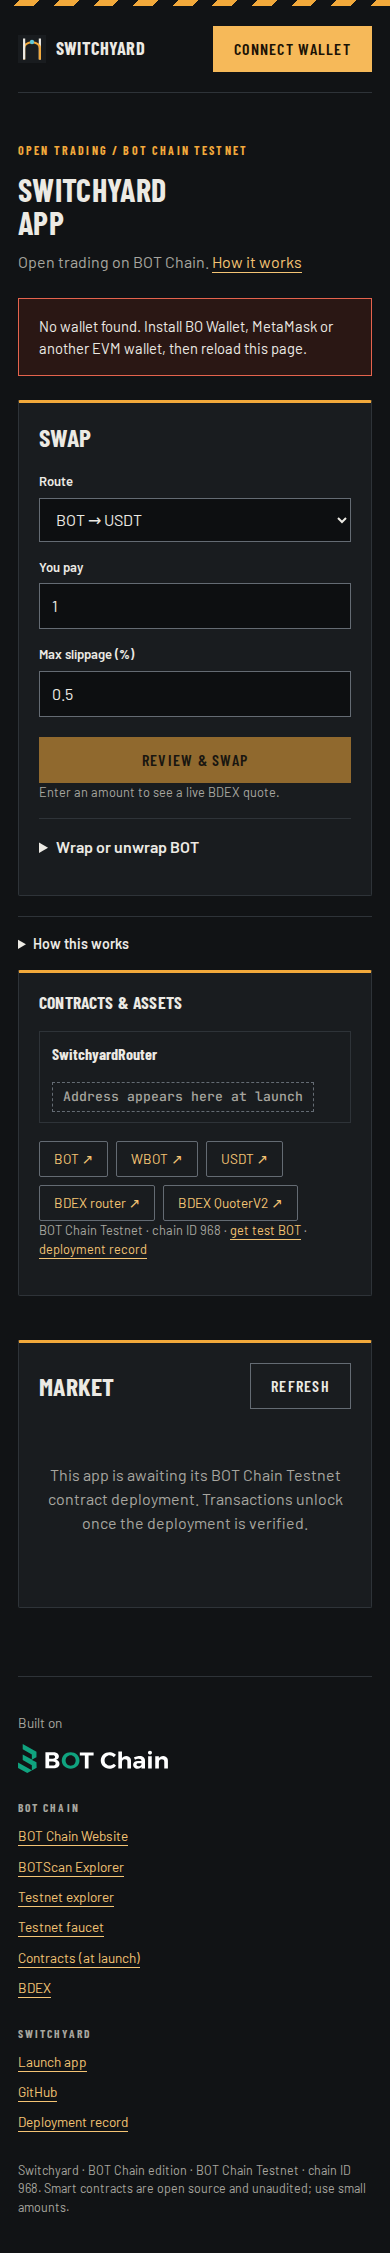
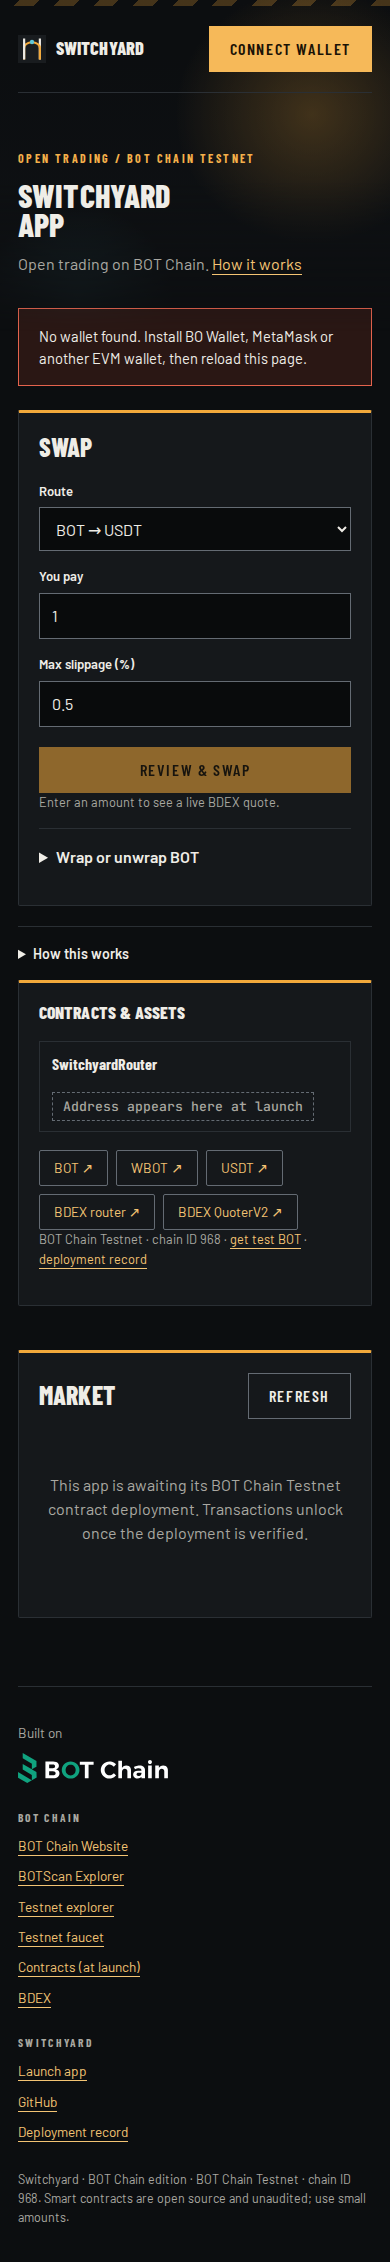
Dark web3 design: glowing heroes, status chip, ticker

diff --git a/web/base.css b/web/base.css
@@ -2,6 +2,7 @@
    theme's tokens (web/themes/<slug>/theme.css). Do not add raw colors here; add a token instead. See DESIGN.md. */
 *{box-sizing:border-box}
 :root{font-family:var(--font-body);color:var(--ink);background:var(--bg);font-synthesis:none;color-scheme:var(--scheme);-webkit-text-size-adjust:100%}
+html,body{overflow-x:clip}
 body{margin:0;background:var(--bg);line-height:1.5}
 button,input,select,textarea{font:inherit;color:inherit}
 button,a,input,textarea,select,summary{-webkit-tap-highlight-color:transparent}
@@ -9,7 +10,7 @@ button,a,input,textarea,select,summary{-webkit-tap-highlight-color:transparent}
 a{color:var(--link);text-underline-offset:4px;text-decoration-thickness:1px}
 a:hover{text-decoration-thickness:2px}
 h1,h2,h3{font-family:var(--font-display);font-weight:var(--display-weight);letter-spacing:var(--display-tracking);text-transform:var(--display-case);color:var(--ink);line-height:1.12}
-h1{font-size:clamp(2.4rem,5.4vw,4.4rem);margin:16px 0 22px;max-width:16ch;line-height:1.02}
+h1{font-size:clamp(2.8rem,7vw,6rem);margin:18px 0 24px;max-width:13ch;line-height:.98}
 h2{font-size:clamp(1.6rem,3vw,2.3rem);margin:0 0 20px}
 h3{font-size:1.1rem;margin:0 0 10px}
 p{color:var(--ink-2);margin:0 0 16px}
@@ -26,7 +27,7 @@ button.primary:hover:not(:disabled),a.button.primary:hover{background:var(--acce
 button:disabled{cursor:not-allowed;opacity:.55;box-shadow:none}
 
 /* Header */
-header{display:flex;align-items:center;justify-content:space-between;gap:20px;padding:20px 0;border-bottom:var(--border-w) solid var(--line)}
+header{position:relative;z-index:3;display:flex;align-items:center;justify-content:space-between;gap:20px;padding:20px 0;border-bottom:var(--border-w) solid var(--line)}
 .brand{display:flex;align-items:center;gap:10px;color:var(--ink);text-decoration:none;font-family:var(--font-display);font-weight:var(--display-weight);letter-spacing:var(--display-tracking);text-transform:var(--display-case);font-size:1.45rem}
 .brand .logo{width:34px;height:34px;flex:none;display:block}
 .site-nav{display:flex;gap:24px;font-size:.95rem}
@@ -40,12 +41,26 @@ header{display:flex;align-items:center;justify-content:space-between;gap:20px;pa
 /* Eyebrow and labels */
 .eyebrow{display:inline-block;font-family:var(--font-label);font-size:.75rem;font-weight:700;letter-spacing:var(--label-tracking);text-transform:uppercase;color:var(--accent-text)}
 
-/* Landing hero */
-.hero{display:grid;grid-template-columns:minmax(0,1.15fr) minmax(0,1fr);grid-template-areas:"copy art";gap:48px;align-items:center;padding:72px 0 56px}
+/* Landing hero: full-bleed glow mesh and texture behind the header and hero, per-theme tokens. */
+.hero{position:relative;isolation:isolate;display:grid;grid-template-columns:minmax(0,1.1fr) minmax(0,1fr);grid-template-areas:"copy art";gap:48px;align-items:center;min-height:min(84vh,820px);padding:64px 0 72px}
+.hero:before,.hero:after{content:'';position:absolute;left:50%;width:100vw;transform:translateX(-50%);top:-96px;bottom:0;z-index:-2;pointer-events:none}
+.hero:before{background:var(--hero-bg)}
+.hero:after{z-index:-1;background:var(--hero-pattern);background-size:var(--hero-pattern-size);-webkit-mask-image:radial-gradient(ellipse 70% 65% at 60% 45%,#000 20%,transparent 75%);mask-image:radial-gradient(ellipse 70% 65% at 60% 45%,#000 20%,transparent 75%);opacity:var(--hero-pattern-opacity)}
 .hero>div:first-child{grid-area:copy}
-.hero p{font-size:1.1rem;max-width:52ch}
-.hero-art{grid-area:art;display:flex;justify-content:center;align-items:center}
-.hero-art svg{width:100%;max-width:460px;height:auto;display:block}
+.hero p{font-size:1.15rem;max-width:50ch}
+.hero-chip{display:inline-flex;align-items:center;gap:10px;margin-bottom:6px;padding:7px 14px;border:1px solid var(--line-strong);border-radius:var(--radius-pill);background:var(--chip-bg);font-family:var(--font-label);font-size:.8rem;font-weight:600;color:var(--ink)}
+.hero-chip:before{content:'';width:8px;height:8px;border-radius:50%;background:var(--live);box-shadow:0 0 0 4px var(--live-ring);animation:pulse 2.4s ease-in-out infinite}
+.hero-chip.pending:before{background:var(--ink-2);box-shadow:none;animation:none}
+.hero-art{grid-area:art;position:relative;display:flex;justify-content:center;align-items:center}
+.hero-art:before{content:'';position:absolute;inset:8% 6%;z-index:-1;border-radius:50%;background:var(--art-glow);filter:blur(48px);opacity:.75}
+.hero-art svg{width:100%;max-width:500px;height:auto;display:block;animation:float 7s ease-in-out infinite}
+@keyframes float{0%,100%{transform:translateY(0)}50%{transform:translateY(-12px)}}
+@keyframes pulse{0%,100%{box-shadow:0 0 0 4px var(--live-ring)}50%{box-shadow:0 0 0 8px transparent}}
+.ticker{position:relative;left:50%;width:100vw;transform:translateX(-50%);overflow:hidden;border-top:var(--border-w) solid var(--line);border-bottom:var(--border-w) solid var(--line);background:var(--ticker-bg)}
+.ticker-track{display:flex;width:max-content;gap:48px;padding:14px 0;animation:marquee 46s linear infinite}
+.ticker span{display:inline-flex;align-items:center;gap:48px;font-family:var(--font-label);font-size:.8rem;font-weight:700;letter-spacing:var(--label-tracking);text-transform:uppercase;color:var(--ink-2);white-space:nowrap}
+.ticker span:after{content:'';width:6px;height:6px;border-radius:50%;background:var(--accent)}
+@keyframes marquee{to{transform:translateX(-50%)}}
 .cta-row{display:flex;flex-wrap:wrap;gap:12px;margin-top:28px}
 .launch{display:flex;flex-wrap:wrap;align-items:center;justify-content:space-between;gap:10px 24px;padding:18px 22px;margin-bottom:8px;border:var(--border-w) solid var(--accent);border-radius:var(--radius-lg);background:var(--surface);box-shadow:var(--shadow-1)}
 .launch.pending{border-color:var(--line-strong)}
@@ -82,7 +97,8 @@ header{display:flex;align-items:center;justify-content:space-between;gap:20px;pa
 .assets a:hover{border-color:var(--accent)}
 
 /* App page */
-.app-intro{padding:44px 0 24px}
+.app-intro{position:relative;isolation:isolate;padding:52px 0 32px}
+.app-intro:before{content:'';position:absolute;left:50%;width:100vw;transform:translateX(-50%);top:-96px;bottom:-24px;z-index:-1;pointer-events:none;background:var(--hero-bg);opacity:.75;-webkit-mask-image:linear-gradient(#000 55%,transparent);mask-image:linear-gradient(#000 55%,transparent)}
 .app-intro h1{font-size:clamp(2rem,4vw,3rem);margin:12px 0}
 .app-intro p{margin:0}
 .status{margin-bottom:24px;padding:16px 20px;border:var(--border-w) solid var(--line);border-left-width:var(--border-w);border-radius:var(--radius-md);background:var(--surface);color:var(--ink);font-size:.92rem;overflow-wrap:anywhere}
@@ -146,7 +162,7 @@ dialog form>button{width:100%}
 .legal{grid-column:1/-1;margin:0;font-size:.78rem}
 .hidden{display:none!important}
 
-@media(max-width:860px){.site-nav{display:none}.steps,.features,.facts{grid-template-columns:1fr}.site-footer{grid-template-columns:1fr}.hero{grid-template-columns:1fr;grid-template-areas:"copy" "art";gap:32px;padding:44px 0 32px}.hero-art svg{max-width:340px}.layout{grid-template-columns:1fr}}
+@media(max-width:860px){.site-nav{display:none}.steps,.features,.facts{grid-template-columns:1fr}.site-footer{grid-template-columns:1fr}.hero{grid-template-columns:1fr;grid-template-areas:"copy" "art";gap:32px;min-height:0;padding:44px 0 48px}.hero-art svg{max-width:360px}.layout{grid-template-columns:1fr}}
 @media(max-width:760px){.shell{padding:0 18px}.band{padding:44px 0}.panel{padding:20px}.cta-band{padding:36px 22px}#add-chain{display:none}.chain-badge.compact{display:none}}
-@media(max-width:480px){header{gap:10px}.header-actions{gap:6px}.chain-badge span{display:none}.chain-badge{padding:6px 8px}.chain-badge img{height:12px}.header-actions a.button{min-height:40px;padding:8px 12px;font-size:.85rem}.brand{font-size:1.15rem}.brand .logo{width:28px;height:28px}h1{font-size:2.3rem}}
+@media(max-width:480px){header{gap:10px}.header-actions{gap:6px}.chain-badge span{display:none}.chain-badge{padding:6px 8px}.chain-badge img{height:12px}.header-actions a.button{min-height:40px;padding:8px 12px;font-size:.85rem}.brand{font-size:1.15rem}.brand .logo{width:28px;height:28px}h1{font-size:2.6rem}}
 @media(prefers-reduced-motion:reduce){*,*:before,*:after{transition:none!important;animation:none!important;scroll-behavior:auto!important}}

diff --git a/web/landing.html b/web/landing.html
@@ -1,1 +1,1 @@
-<!doctype html><html lang="en"><head><meta charset="UTF-8"><meta name="viewport" content="width=device-width,initial-scale=1"><meta name="theme-color" content="__THEME_COLOR__"><title>__NAME__ · BOT Chain</title><meta name="description" content="__DESCRIPTION__"><meta property="og:title" content="__NAME__ · BOT Chain"><meta property="og:description" content="__DESCRIPTION__"><meta property="og:type" content="website"><meta name="twitter:card" content="summary"><link rel="icon" href="/icon.svg" type="image/svg+xml"><link rel="stylesheet" href="/style.css"></head><body><a class="skip" href="#main">Skip to content</a><div class="shell"><header><a class="brand" href="/">__LOGO____NAME__</a><nav class="site-nav" aria-label="Page"><a href="#how">How it works</a><a href="#features">Features</a><a href="#contracts">Contracts</a><a href="#faq">FAQ</a><a href="__REPO_URL__" target="_blank" rel="noopener noreferrer">GitHub</a></nav><div class="header-actions"><a class="chain-badge" href="https://www.botchain.ai/" target="_blank" rel="noopener noreferrer" aria-label="Built on BOT Chain"><span>Built on</span><img src="/__BOTCHAIN_LOGO__" alt="BOT Chain" width="96" height="19"></a><a class="button primary" href="/app/">Launch app</a></div></header><main id="main"><section class="hero"><div><span class="eyebrow">__EYEBROW__ / BOT CHAIN</span><h1>__LINE__</h1><p>__DESCRIPTION__</p><div class="cta-row"><a class="button primary" href="/app/">Launch app</a><a class="button" href="__REPO_URL__" target="_blank" rel="noopener noreferrer">View source</a></div></div><div class="hero-art">__HERO_ART__</div></section>__LAUNCH__<section id="how" class="band"><span class="eyebrow">How it works</span><h2>Three steps, all onchain</h2><ol class="steps">__STEPS__</ol></section><section id="features" class="band"><span class="eyebrow">Features</span><h2>Why __NAME__</h2><div class="features">__FEATURES__</div></section><section id="onchain" class="band"><span class="eyebrow">Onchain</span><h2>Verify everything</h2><dl class="facts">__FACTS__</dl></section><section id="contracts" class="band"><span class="eyebrow">Contracts &amp; BOT Chain assets</span><h2>Every address, on __EXPLORER__</h2><p>Each link opens the contract or token on __EXPLORER_LONG__.</p><div class="contracts">__CONTRACTS__</div><h3 class="assets-title">BOT Chain assets used</h3><ul class="assets">__ASSETS__</ul></section><section id="faq" class="band"><span class="eyebrow">FAQ</span><h2>Questions</h2><div class="faq">__FAQ__</div></section><section class="cta-band"><h2>__LINE__</h2><p>Connect BO Wallet, MetaMask or any EVM wallet on __NETWORK__.</p><a class="button primary" href="/app/">Launch __NAME__</a></section></main>__FOOTER__</div></body></html>
+<!doctype html><html lang="en"><head><meta charset="UTF-8"><meta name="viewport" content="width=device-width,initial-scale=1"><meta name="theme-color" content="__THEME_COLOR__"><title>__NAME__ · BOT Chain</title><meta name="description" content="__DESCRIPTION__"><meta property="og:title" content="__NAME__ · BOT Chain"><meta property="og:description" content="__DESCRIPTION__"><meta property="og:type" content="website"><meta name="twitter:card" content="summary"><link rel="icon" href="/icon.svg" type="image/svg+xml"><link rel="stylesheet" href="/style.css"></head><body><a class="skip" href="#main">Skip to content</a><div class="shell"><header><a class="brand" href="/">__LOGO____NAME__</a><nav class="site-nav" aria-label="Page"><a href="#how">How it works</a><a href="#features">Features</a><a href="#contracts">Contracts</a><a href="#faq">FAQ</a><a href="__REPO_URL__" target="_blank" rel="noopener noreferrer">GitHub</a></nav><div class="header-actions"><a class="chain-badge" href="https://www.botchain.ai/" target="_blank" rel="noopener noreferrer" aria-label="Built on BOT Chain"><span>Built on</span><img src="/__BOTCHAIN_LOGO__" alt="BOT Chain" width="96" height="19"></a><a class="button primary" href="/app/">Launch app</a></div></header><main id="main"><section class="hero"><div>__HERO_CHIP__<br><span class="eyebrow">__EYEBROW__ / BOT CHAIN</span><h1>__LINE__</h1><p>__DESCRIPTION__</p><div class="cta-row"><a class="button primary" href="/app/">Launch app</a><a class="button" href="__REPO_URL__" target="_blank" rel="noopener noreferrer">View source</a></div></div><div class="hero-art">__HERO_ART__</div></section><div class="ticker" aria-hidden="true"><div class="ticker-track">__TICKER__</div></div>__LAUNCH__<section id="how" class="band"><span class="eyebrow">How it works</span><h2>Three steps, all onchain</h2><ol class="steps">__STEPS__</ol></section><section id="features" class="band"><span class="eyebrow">Features</span><h2>Why __NAME__</h2><div class="features">__FEATURES__</div></section><section id="onchain" class="band"><span class="eyebrow">Onchain</span><h2>Verify everything</h2><dl class="facts">__FACTS__</dl></section><section id="contracts" class="band"><span class="eyebrow">Contracts &amp; BOT Chain assets</span><h2>Every address, on __EXPLORER__</h2><p>Each link opens the contract or token on __EXPLORER_LONG__.</p><div class="contracts">__CONTRACTS__</div><h3 class="assets-title">BOT Chain assets used</h3><ul class="assets">__ASSETS__</ul></section><section id="faq" class="band"><span class="eyebrow">FAQ</span><h2>Questions</h2><div class="faq">__FAQ__</div></section><section class="cta-band"><h2>__LINE__</h2><p>Connect BO Wallet, MetaMask or any EVM wallet on __NETWORK__.</p><a class="button primary" href="/app/">Launch __NAME__</a></section></main>__FOOTER__</div></body></html>

diff --git a/web/themes/switchyard/theme.css b/web/themes/switchyard/theme.css
@@ -1,17 +1,23 @@
-@import url('https://fonts.googleapis.com/css2?family=Barlow+Condensed:wght@600;700&family=Barlow:wght@400;500;600&family=JetBrains+Mono:wght@500;700&display=swap');
-/* Switchyard: rail signage at night. Dark steel, signal amber, condensed caps, departure-board numbers. */
-:root{--scheme:dark;--bg:#111315;--surface:#191C1F;--surface-2:#22262A;--input-bg:#0D0F11;--tile:#22262A;
- --ink:#ECEAE4;--ink-2:#A7A69F;--line:#2E3338;--line-strong:#646B73;
- --accent:#F2A93B;--accent-hover:#F7BC5E;--accent-ink:#1A1205;--accent-text:#F2A93B;--link:#F4C474;--focus:#5FC7D9;
- --danger:#E5634D;--danger-bg:#2A1714;--danger-text:#F28C78;--scrim:rgba(0,0,0,.65);
+@import url('https://fonts.googleapis.com/css2?family=Barlow+Condensed:wght@600;700;800&family=Barlow:wght@400;500;600&family=JetBrains+Mono:wght@500;700&display=swap');
+/* Switchyard: a rail yard at night. Steel black, signal amber and cyan lamps, condensed caps, departure boards. */
+:root{--scheme:dark;--bg:#0C0E10;--surface:#15181B;--surface-2:#1E2226;--input-bg:#090B0C;--tile:#1E2226;
+ --ink:#EFEDE7;--ink-2:#A9A8A1;--line:#2A2F34;--line-strong:#646B73;
+ --accent:#F2A93B;--accent-hover:#F7BC5E;--accent-ink:#1A1205;--accent-text:#F4B04A;--link:#F4C474;--focus:#5FD3E6;
+ --danger:#E5634D;--danger-bg:#2A1714;--danger-text:#F28C78;--scrim:rgba(0,0,0,.7);
  --radius-sm:0;--radius-md:0;--radius-lg:2px;--radius-btn:0;--radius-pill:2px;--border-w:1px;
- --shadow-1:none;--shadow-2:0 24px 60px rgba(0,0,0,.6);--shadow-btn:none;
+ --shadow-1:none;--shadow-2:0 24px 60px rgba(0,0,0,.65);--shadow-btn:none;
  --font-display:'Barlow Condensed','Arial Narrow',sans-serif;--font-body:'Barlow',system-ui,sans-serif;--font-label:'Barlow Condensed','Arial Narrow',sans-serif;--font-mono:'JetBrains Mono',ui-monospace,monospace;
- --display-weight:700;--display-tracking:.01em;--display-case:uppercase;--label-tracking:.18em}
-/* Signal strip, departure-board steps, mono figures. */
+ --display-weight:800;--display-tracking:.005em;--display-case:uppercase;--label-tracking:.2em;
+ --hero-bg:radial-gradient(50% 55% at 80% 35%,rgba(242,169,59,.30),transparent 70%),radial-gradient(35% 40% at 20% 90%,rgba(95,211,230,.16),transparent 70%),linear-gradient(180deg,#0C0E10 0%,#101316 100%);
+ --hero-pattern:linear-gradient(rgba(239,237,231,.10) 1px,transparent 1px),linear-gradient(90deg,rgba(239,237,231,.10) 1px,transparent 1px);--hero-pattern-size:64px 64px;--hero-pattern-opacity:.8;
+ --chip-bg:rgba(21,24,27,.8);--live:#5FD3E6;--live-ring:rgba(95,211,230,.25);--art-glow:radial-gradient(circle,rgba(242,169,59,.55),rgba(95,211,230,.18) 55%,transparent 72%);--ticker-bg:#F2A93B}
+/* Hazard strip, amber ticker band, departure-board steps, mono figures. */
 body:before{content:'';display:block;height:6px;background:repeating-linear-gradient(-45deg,var(--accent) 0 14px,var(--bg) 14px 28px)}
-h1{font-size:clamp(2.8rem,6vw,5rem);max-width:12ch}
-button,a.button{text-transform:uppercase;letter-spacing:.08em;font-family:var(--font-label);font-size:1rem}
+h1{font-size:clamp(3.2rem,8vw,6.8rem);max-width:11ch;line-height:.92}
+button,a.button{text-transform:uppercase;letter-spacing:.1em;font-family:var(--font-label);font-size:1rem}
+.ticker{border:0}
+.ticker span{color:var(--accent-ink)}
+.ticker span:after{background:var(--accent-ink)}
 .steps{gap:2px;background:var(--line)}
 .steps li{border:0;background:var(--surface);border-radius:0}
 .steps li:before{display:inline-block;padding:4px 8px;background:var(--bg);border:1px solid var(--line-strong);font-size:1.1rem;color:var(--accent-text)}
@@ -20,4 +26,4 @@ button,a.button{text-transform:uppercase;letter-spacing:.08em;font-family:var(--
 .launch{border-left:6px solid var(--accent)}
 .launch.pending{border-left-color:var(--line-strong)}
 .panel{border-top:3px solid var(--accent)}
-.cta-band{border-left:6px solid var(--accent)}
+.cta-band{border-left:6px solid var(--accent);background:radial-gradient(60% 120% at 90% 0%,rgba(242,169,59,.22),transparent 60%),var(--surface)}

diff --git a/DESIGN.md b/DESIGN.md
@@ -28,20 +28,28 @@ Six products share one HTML structure and one app runtime, but each has its own 
 
 ## The six identities
 
-| Product | Scene | Register | Palette | Type | Shape and signature |
-|---|---|---|---|---|---|
-| **Hedgerow** | A holder reads a basket like a fund factsheet before committing | Light, editorial | Paper `#F3EEE3`, forest `#2E5B39`, ochre focus | Fraunces / Public Sans / IBM Plex Mono | 2–6px radii, double rule under header, ruled factsheet steps, serif numerals |
-| **Switchyard** | A trader swaps at night between other tabs | Dark, signage | Steel `#111315`, signal amber `#F2A93B`, cyan focus | Barlow Condensed (caps) / Barlow / JetBrains Mono | Square, hazard strip, departure-board steps, mono figures |
-| **Lodestake** | A player grabs a round on a lunch break | Dark, game | Amethyst rock `#16121D`, gold ore `#F4BE48`, mint focus | Bungee / Rubik / Space Mono | 8–18px radii, 2px borders, beveled tiles and buttons |
-| **Showproof** | Someone in a group chat snaps proof in daylight | Light, playful | Warm white `#FBF8F3`, coral `#C0371E`, cobalt links | Bricolage Grotesque / Figtree / DM Mono | Pill buttons with sticker shadow, taped polaroid steps, art-left hero |
-| **Stepsale** | A founder sets up a careful community sale | Light, fintech | Cool white `#F5F6FA`, deep blue `#2438C8`, green focus | Sora / Manrope / IBM Plex Mono | 8–16px radii, soft elevation, rising timeline steps |
-| **Tradelock** | Two collectors negotiate OTC and want to see the lock | Light, neo-brutalist | Cream `#F1EEE2`, ink `#111111`, acid lime `#C5F23A` | Unbounded / Work Sans / JetBrains Mono | Zero radius, 2px ink borders, offset shadows, lime heading markers |
+All six are dark (web3 register, per the owner's direction). Each keeps its own hue family, type and shape so they stay distinct.
+
+| Product | Scene | Palette | Type | Shape and signature |
+|---|---|---|---|---|
+| **Hedgerow** | A DAO treasury after dark; holders read baskets like a factsheet | Forest night `#09110D`, emerald `#7FD69A`, champagne `#E8C66B` | Fraunces / Public Sans / IBM Plex Mono | 2–8px radii, ruled factsheet steps, italic champagne numerals, dot texture |
+| **Switchyard** | A trader swaps at night between other tabs | Steel `#0C0E10`, signal amber `#F2A93B`, cyan lamp `#5FD3E6` | Barlow Condensed (caps) / Barlow / JetBrains Mono | Square, hazard strip, amber ticker band, rail-grid texture, departure-board steps |
+| **Lodestake** | A player grabs a round on a lunch break | Amethyst rock `#120E19`, gold ore `#F4BE48`, mint `#7DE0C3` | Bungee / Rubik / Space Mono | 8–18px radii, 2px borders, beveled glowing tiles, two-scale dot texture |
+| **Showproof** | A night-out photo wall; proof snapped in a group chat | Ink `#110D14`, coral `#FF6A4D`, cobalt `#93A9FF` | Bricolage Grotesque / Figtree / DM Mono | Pill buttons with coral sticker shadow, paper polaroid steps, art-left hero |
+| **Stepsale** | A launch at midnight; a founder sets careful terms | Navy `#070B1C`, electric blue `#5B7CFF`, mint `#3DDC97` | Sora / Manrope / IBM Plex Mono | 8–18px radii, rising timeline steps, fine grid texture |
+| **Tradelock** | An after-hours deal desk; collectors want to see the lock | Carbon `#0C0C0A`, bone `#F4F2E8`, acid lime `#C5F23A` | Unbounded / Work Sans / JetBrains Mono | Zero radius, 2px bone borders, lime offset shadows, lime heading markers and ticker |
+
+## Hero tokens
+
+`--hero-bg` (glow mesh), `--hero-pattern`, `--hero-pattern-size`, `--hero-pattern-opacity` (texture, masked to the hero centre), `--chip-bg`, `--live`, `--live-ring` (status chip), `--art-glow` (blur behind the hero art), `--ticker-bg` (scrolling band). The same mesh sits softly behind the app page header.
+
+**Recorded override:** the UI guidelines list glow meshes as a generic default. They are used here deliberately at the owner's request for a web3 aesthetic, kept to the hero and app header, with all text on solid dark surfaces so contrast is verifiable.
 
 ## Rules
 
 - Text pairs pass WCAG AA (4.5:1); borders, focus and state indicators pass 3:1. Check new colors with the contrast checker before shipping.
-- Tradelock's lime is 1.1:1 on its page, so every edge that must read is ink, never lime.
+- Tradelock edges that must read are bone (`--ink`); lime marks state and emphasis.
 - Theme layout overrides that change the hero grid must be wrapped in `@media(min-width:861px)` so the shared phone layout still applies.
-- No emoji as icons, no gradient text, no glow effects. Personality comes from type, shape and layout.
-- Light themes use `web/botchain-dark.svg`; dark themes use `web/botchain.svg`.
-- `prefers-reduced-motion` disables transitions and the Showproof card tilt.
+- No emoji as icons and no gradient text. Glow is limited to the hero, app header, hero art and primary game buttons; body sections stay solid.
+- Light themes use `web/botchain-dark.svg`; dark themes use `web/botchain.svg` (all six are currently dark).
+- `prefers-reduced-motion` disables transitions, the ticker, the floating hero art, the status pulse and the Showproof card tilt.
